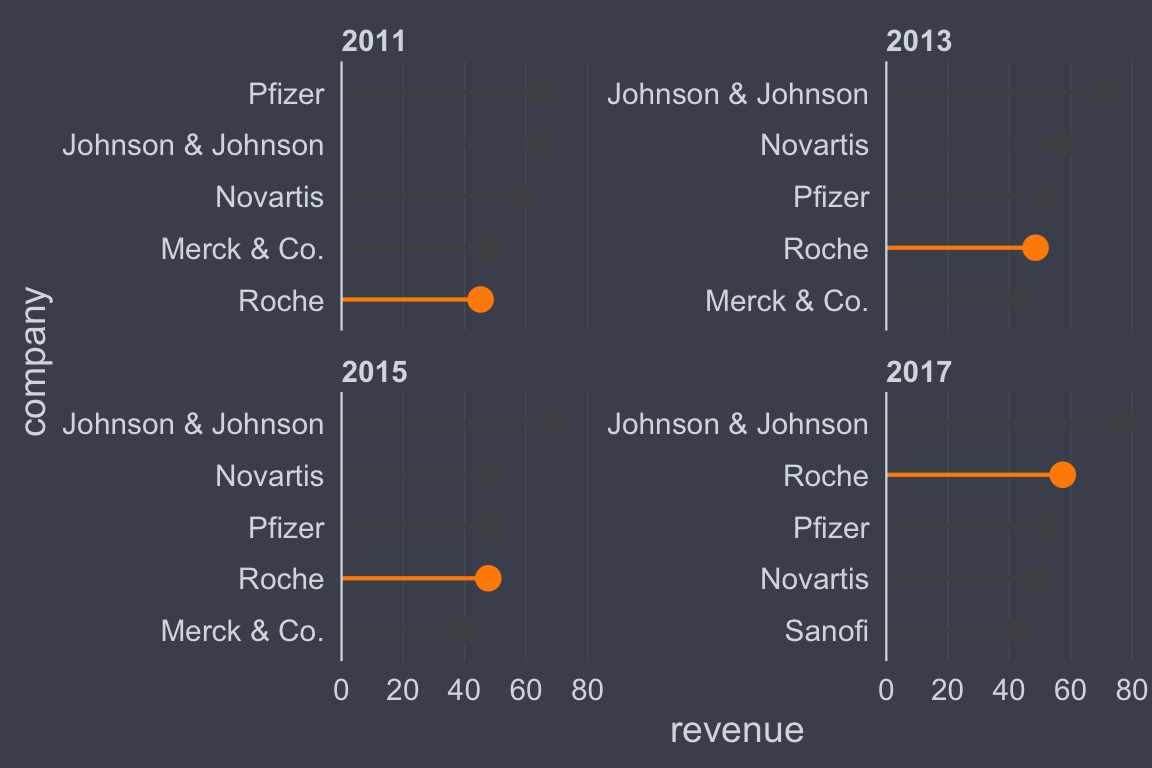
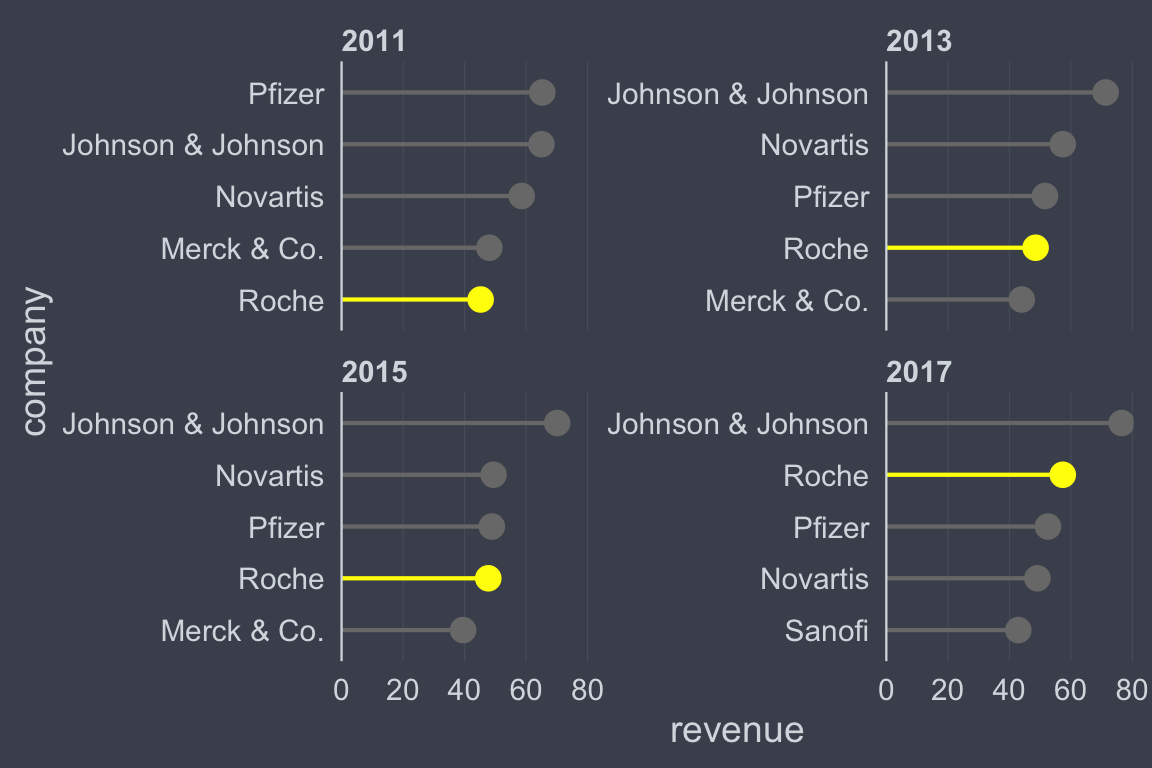
Built site for ggcharts: 0.2.1@65323a0

diff --git a/articles/themes.html b/articles/themes.html
@@ -179,9 +179,10 @@
 <h3 class="hasAnchor">
 <a href="#theme_hermit" class="anchor"></a><code>theme_hermit</code>
 </h3>
-<div class="sourceCode" id="cb14"><html><body><pre class="r"><span class="no">biomedicalrevenue</span> <span class="kw">%&gt;%</span>
+<div class="sourceCode" id="cb14"><html><body><pre class="r"><span class="no">spec</span> <span class="kw">&lt;-</span> <span class="fu"><a href="../reference/highlight_spec.html">highlight_spec</a></span>(<span class="st">"Roche"</span>, <span class="st">"yellow"</span>, <span class="st">"#7A7A7A"</span>)
+<span class="no">biomedicalrevenue</span> <span class="kw">%&gt;%</span>
   <span class="fu"><a href="https://dplyr.tidyverse.org/reference/filter.html">filter</a></span>(<span class="no">year</span> <span class="kw">%in%</span> <span class="fu"><a href="https://rdrr.io/r/base/c.html">c</a></span>(<span class="fl">2011</span>, <span class="fl">2013</span>, <span class="fl">2015</span>, <span class="fl">2017</span>)) <span class="kw">%&gt;%</span>
-  <span class="fu"><a href="../reference/lollipop_chart.html">lollipop_chart</a></span>(<span class="no">company</span>, <span class="no">revenue</span>, <span class="kw">facet</span> <span class="kw">=</span> <span class="no">year</span>, <span class="kw">highlight</span> <span class="kw">=</span> <span class="st">"Roche"</span>, <span class="kw">line_color</span> <span class="kw">=</span> <span class="st">"yellow"</span>, <span class="kw">top_n</span> <span class="kw">=</span> <span class="fl">5</span>) +
+  <span class="fu"><a href="../reference/lollipop_chart.html">lollipop_chart</a></span>(<span class="no">company</span>, <span class="no">revenue</span>, <span class="kw">facet</span> <span class="kw">=</span> <span class="no">year</span>, <span class="kw">highlight</span> <span class="kw">=</span> <span class="no">spec</span>, <span class="kw">top_n</span> <span class="kw">=</span> <span class="fl">5</span>) +
   <span class="fu"><a href="../reference/theme_hermit.html">theme_hermit</a></span>(<span class="kw">axis</span> <span class="kw">=</span> <span class="st">"y"</span>, <span class="kw">grid</span> <span class="kw">=</span> <span class="st">"Y"</span>)</pre></body></html></div>
 <p><img src="themes_files/figure-html/unnamed-chunk-13-1.png" width="576"></p>
 </div>
